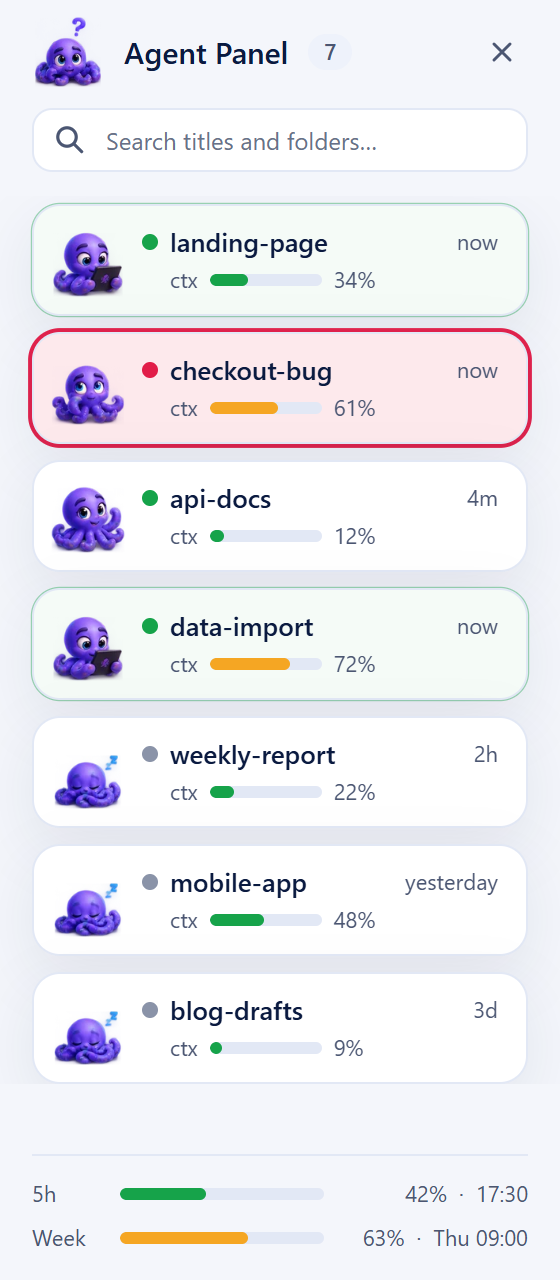
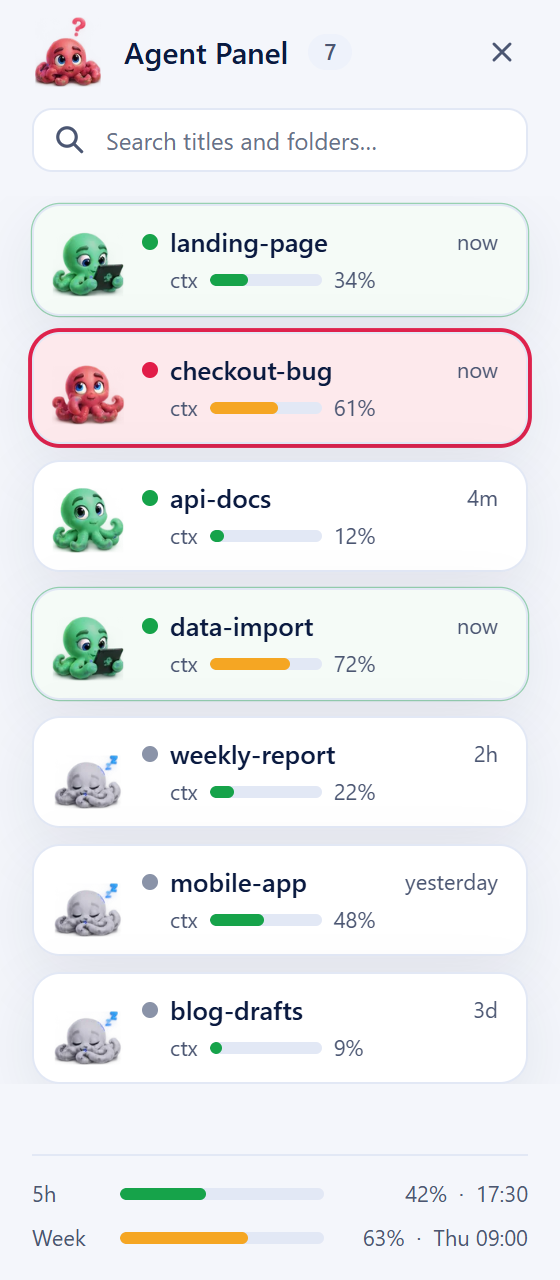
Agent Panel: the octopus takes its state's colour, green, red or grey

diff --git a/agent-panel.html b/agent-panel.html
@@ -10,7 +10,8 @@
      Mascot (2026-11-09): a purple octopus (the maintainer's sheet, cut by tools/mascot-export.py into
      mascot/ and inlined by agent-panel.pyw as window.MASCOT). It is the header's logo and sits on every
      card: reading a tablet while the session works, puzzled with a question mark while it asks, calm and
-     blinking now and then while it is open, asleep and still when closed. Without the strips the old logo stays. The bars' 50-80 % band is gold to match the status line,
+     blinking now and then while it is open, asleep and still when closed, and takes its state's dot
+     colour (green, red, grey; the strips are recoloured at export). Without the strips the old logo stays. The bars' 50-80 % band is gold to match the status line,
      an exception to Spark's "gold for rewards only". Written-down exceptions to design.md "One row,
      one shape": the header's logo (36, the octopus), count pill (18, pill radius) and hide button (26) differ, the
      pill qualifying the title and the button standing apart at the edge. Headings and boxes share the

diff --git a/tools/mascot-export.py b/tools/mascot-export.py
@@ -6,7 +6,9 @@ Source: tools/mascot-source/purple-octopus.png, a 1536 x 1024 sheet with transpa
 two columns of six numbered rows, five frames per row, a dark label pill at each row's top left.
 Each row used here is cut into its frames (alpha bands between the drawings), every frame placed
 on one square canvas per row, standing on the drawing's baseline and centred on it, so the frames
-line up when played; then scaled to 96 px frames (shown at 36 to 38 px, sharp on scaled screens).
+line up when played; then scaled to 96 px frames (shown at 36 to 38 px, sharp on scaled screens),
+and recoloured to its state's dot colour: only the octopus's purple changes hue (the blue eyes, the
+white and the props keep theirs), green for open and working, red for asking, grey for closed.
 Output: mascot/<name>.webp next to this folder's parent, one horizontal strip per name, and
 mascot/logo.png, the package's logo (256 px), and mascot/tray.png, the tray icon (64 px).
 """
@@ -19,13 +21,30 @@ HERE = os.path.dirname(os.path.abspath(__file__))
 SRC = os.path.join(HERE, "mascot-source", "purple-octopus.png")
 OUT = os.path.join(os.path.dirname(HERE), "mascot")
 OUT_PX = 96
-# name: (column 0 or 1, row band 0..5, frames to keep in play order)
+# name: (column 0 or 1, row band 0..5, frames to keep in play order, colour)
 STRIPS = {
-    "calm": (0, 0, [0, 1, 2, 3, 4]),        # 1 Calm: looks around, blinks
-    "reading": (1, 0, [0, 1, 2, 3, 4]),     # 2 Watching / reading a tablet
-    "sleeping": (0, 1, [0, 1, 2]),          # 3 Asleep (cap and bubble frames left out)
-    "asking": (1, 3, [1, 2, 4, 2]),         # 8 Puzzled, question marks (the box frame left out)
+    "calm": (0, 0, [0, 1, 2, 3, 4], "green"),     # 1 Calm: looks around, blinks
+    "reading": (1, 0, [0, 1, 2, 3, 4], "green"),  # 2 Watching / reading a tablet
+    "sleeping": (0, 1, [0, 1, 2], "grey"),        # 3 Asleep (cap and bubble frames left out)
+    "asking": (1, 3, [1, 2, 4, 2], "red"),        # 8 Puzzled, question marks (the box frame left out)
 }
+# the panel's dot colours (--green #16a34a, --red #e11d48, --gone grey) as a target hue for the
+# octopus's purple (hue about 250), with saturation and brightness scaled so it is not neon
+COLOURS = {"green": (142, 0.8, 0.85), "red": (350, 0.9, 0.95), "grey": (None, 0.1, 0.85)}
+
+
+def recolour(img, colour):
+    hue, sat, val = COLOURS[colour]
+    rgba = np.array(img)
+    hsv = np.array(Image.fromarray(rgba[:, :, :3]).convert("HSV")).astype(float)
+    h = hsv[:, :, 0] * 360 / 255
+    purple = (h >= 232) & (h <= 320) & (hsv[:, :, 1] > 30)  # the irises (hue about 215) stay blue
+    if hue is not None:
+        hsv[:, :, 0] = np.where(purple, (h + hue - 250) % 360, h) * 255 / 360
+    hsv[:, :, 1] = np.where(purple, hsv[:, :, 1] * sat, hsv[:, :, 1])
+    hsv[:, :, 2] = np.where(purple, hsv[:, :, 2] * val, hsv[:, :, 2])
+    rgb = np.array(Image.fromarray(hsv.clip(0, 255).astype("uint8"), "HSV").convert("RGB"))
+    return Image.fromarray(np.dstack([rgb, rgba[:, :, 3]]), "RGBA")
 BANDS = [0, 170, 345, 530, 700, 870, 1024]
 
 sheet = Image.open(SRC).convert("RGBA")
@@ -67,7 +86,7 @@ def frames_of(col, band):
 
 
 os.makedirs(OUT, exist_ok=True)
-for name, (col, band, keep) in STRIPS.items():
+for name, (col, band, keep, colour) in STRIPS.items():
     frames = frames_of(col, band)
     side = max(max(f.width, f.height) for f in frames) + 6
     strip = Image.new("RGBA", (OUT_PX * len(keep), OUT_PX))
@@ -76,10 +95,10 @@ for name, (col, band, keep) in STRIPS.items():
         canvas = Image.new("RGBA", (side, side))
         canvas.paste(f, ((side - f.width) // 2, side - 3 - f.height))
         strip.paste(canvas.resize((OUT_PX, OUT_PX), Image.LANCZOS), (i * OUT_PX, 0))
-    strip.save(os.path.join(OUT, name + ".webp"), "WEBP", quality=85, method=6)
-    print("wrote %s (%d frames)" % (name, len(keep)))
+    recolour(strip, colour).save(os.path.join(OUT, name + ".webp"), "WEBP", quality=85, method=6)
+    print("wrote %s (%d frames, %s)" % (name, len(keep), colour))
 
-# the package's logo (README, tray icon): the calm octopus's first pose, cut close to its drawing
+# the package's logo (README, tray icon): the calm octopus's first pose in its own purple, cut close
 f = frames_of(*STRIPS["calm"][:2])[0]
 side = max(f.width, f.height)
 logo = Image.new("RGBA", (side, side))

diff --git a/memory.md b/memory.md
@@ -27,7 +27,7 @@ Key file: `~/.claudex/profiles/glm/.env`, line `CLAUDEX_KEY="..."`. Never in thi
 - Right-click menu (2026-11-07, the maintainer's spec): Hide / Unhide, Close (open sessions only), Delete. The menu is HTML inside the panel (a web page cannot draw outside its window), opened at the pointer and kept inside the panel; Delete is red on a pale red hover. It closes on Escape, on a click outside (that click does nothing else), on scroll and on focus loss. The native menu was rejected (the maintainer, 2026-11-08: it ignores the theme). Hidden ids live in `~/.claude/state/agent-panel/hidden.json`; Hidden sessions, sessions whose folder is gone and headless runs (`entrypoint` `sdk-cli` in the transcript: a `claude -p` that another session started, e.g. tech news calling the Topview MCP; 2026-11-08, the maintainer) stay out of the main list and the header count; a headless card says `headless` and its menu has no Hide; the quiet link *Show Hidden, Deleted and Headless (n)* in the strip under the list adds a HIDDEN, DELETED AND HEADLESS section after the main list and scrolls to it. Cards there are not greyed; their second line says `hidden` or `folder deleted` (the maintainer, 2026-11-07: greyed cards inside the main list read as clutter; the user's word is "deleted", not "missing"). Open/working dots are refreshed every 2 s from `~/.claude/sessions/<pid>.json` alone (the full transcript scan stays at 15 s), so a session closed in its own terminal loses its dot within 2 s. Close and Delete confirm in two steps beside the control, per `mindmap/table.md` *Delete confirmation* (2026-11-08, replacing two modal dialogs): the menu turns into a small card with the question, one sentence on what happens, Cancel (focused, the default) and *Yes, Close* / *Yes, Delete*, placed under the card (above it near the bottom), never on it. Delete on an open session closes it first and waits up to 10 s for its process to end (`close_delete`); on a session stored inside WSL it is shown greyed and says why under itself (a network path has no Recycle Bin). It then moves the transcript, its `<id>/` folder and `file-history/<id>/` to the Recycle Bin with `SHFileOperationW` (`FOF_ALLOWUNDO`). Project files and the project's auto memory are never touched. Close sends `WM_CLOSE` to the session's window when no other open session shares it, otherwise ends the process; the transcript stays.
 - Tested 2026-11-07: work area back to the full 1920 px with the panel running; a maximised window spans the full width and covers the panel; Ctrl+Alt+C raised the panel over it.
 - Panel look (2026-11-08): the Afiniti Spark theme (`mindmap/design_themes/spark_theme`) as CSS in `agent-panel.html`: Spark colours, 14 px cards with the resting `--shadow`, 10 px search box with a blue focus ring, blue hover border, colour-matched glow on the confirm buttons, blue to cyan logo tile as inline SVG; gold only for rewards. State (the maintainer, 2026-11-09, replacing a blinking dot): the dot is green for a working or open session, grey for a closed one, red for one asking. The whole card of a working session breathes: its background and a ring fade to green and back every 2.4 s (a plain blink of the dot was not seen from afar; a hard blink of whole cards, several at once, was rejected as too loud at the screen edge). A session whose own window shows a prompt waiting for an answer (a permission question or a dialog) pulses red, faster (1.2 s), so it stands out among working ones. Under reduced motion the card keeps a still green or red tint and ring, and the working dot is a hollow ring. The red state comes from `waitingFor`: Claude Code writes it into `~/.claude/sessions/<pid>.json` while `status` still says `busy`, and the panel reads it every 2 s. Before this such a session looked as if it were working. Fonts are Segoe UI (Manrope and Inter are not installed; bundling them was offered, not chosen yet). The Tk version (2026-11-07) had to replace shadows with borders and draw icons with PIL; that is why it was ported (see `mindmap/claude-plus-fa.md`, Decisions).
-- Mascot (2026-11-09, the maintainer): a purple octopus from the maintainer's own sprite sheet, the header's logo (36 px, showing the most pressing state in the list) and on every card (38 px, on the left). It replaced, the same day, MindCopy's Knowledge Gremlin, whose detail turned to mush at 38 px; drawn SVG droplets were tried in between and rejected (too soft, then a superhero version that did not read). Mood by state: working reads a tablet (loop, 650 ms a frame), asking looks puzzled with a question mark (loop, 550 ms), open looks around and blinks once then rests 5 s (450 ms), closed sleeps without moving. The sheet's frames are separate poses, not in-betweens, so each holds about half a second; faster swapping looked jittery. One `requestAnimationFrame` timer drives every strip; each card starts at a random moment so they do not move in step; reduced motion shows frame 0 only (rules: `mindmap/mascot.md`). Every card shows the same octopus: the sheet has one character, so cards no longer look different from each other.
+- Mascot (2026-11-09, the maintainer): a purple octopus from the maintainer's own sprite sheet, the header's logo (36 px, showing the most pressing state in the list) and on every card (38 px, on the left). It replaced, the same day, MindCopy's Knowledge Gremlin, whose detail turned to mush at 38 px; drawn SVG droplets were tried in between and rejected (too soft, then a superhero version that did not read). Each strip is recoloured at export to its state's dot colour (the maintainer, 2026-11-09): green for working and open, red for asking, grey for closed; only the octopus's purple (hue 232 to 320) is shifted, so the blue eyes and the props keep their colours; the logo and the tray icon stay purple. Mood by state: working reads a tablet (loop, 650 ms a frame), asking looks puzzled with a question mark (loop, 550 ms), open looks around and blinks once then rests 5 s (450 ms), closed sleeps without moving. The sheet's frames are separate poses, not in-betweens, so each holds about half a second; faster swapping looked jittery. One `requestAnimationFrame` timer drives every strip; each card starts at a random moment so they do not move in step; reduced motion shows frame 0 only (rules: `mindmap/mascot.md`). Every card shows the same octopus: the sheet has one character, so cards no longer look different from each other.
 - Card rows (2026-11-08, the maintainer; path row removed 2026-11-09): title, whose tooltip is the full folder path (`where_of`: a WSL-distro session gets `\\wsl.localhost\<distro>` in front, `//` paths turn into backslashes), with the title in full above it when the title is cut (navy, after 400 ms of pointer movement, gone after 3 s, on leave, on a click or on scroll, per `tooltip.md`, which also rules out opening it on keyboard focus; a screen reader gets the path in the card's label). The path had its own row until 2026-11-09; dropping it makes cards smaller so more sessions fit, at the cost of telling same-titled sessions apart only by pointing. Search still matches the path. Then `ctx` bar + percent from `~/.claude/state/context/<sid>.json` (green < 50, gold < 80, red above, as on the status line; left out entirely when unknown) and on the right `hidden` / `headless` / `folder deleted` / age, joined by ` · `. Every part of that row but the flags keeps its width; the flags end in `…` when they do not fit, with the same tooltip showing them in full (a row wider than the card gave the list a horizontal scrollbar, 2026-11-08). Cards are 56 px high. The `(WSL)` tag is gone: the path shows it. The bottom strip shows `5h` and `week` bars from `rate_limits.json`; a figure whose `resets_at` has passed says *no figure yet*. Cards are kept and patched by id, never redrawn wholesale: open sessions change every 2 s, and a redrawn card drops the hover and the title's tooltip (this hid the tooltip in the first web build).
 - `apply design.md` (2026-11-08, three passes) changed the panel: a message about one card shows under that card (an error stays until the next click or key, a success leaves after 5 s); a message about the whole panel floats above the bottom link, and a failed scan stays there in amber until a scan succeeds; the search has a × and Esc, searches title and full path, marks hits and turns the count into `matches/total`; a skeleton shows until the first scan (`scanned` in the state); the age moved to the title row; titles cut with … get a tooltip; every button has a custom tooltip (no `title`); cards are keyboard buttons (Enter or Space opens, Shift+F10 or the menu key opens the menu, arrows walk it); reduced motion stops all motion and draws the working dot as a ring; the closed dot and the bottom link were darkened for contrast. `statusline.py` now rounds halves up like the panel, so both show the same percent.
 - Clicks (2026-11-07, the maintainer): a closed session opens only on a double click, so a stray click never starts one (a single click says "Double-click to open it.", held back 450 ms so a double click never shows it); an open session comes forward on a single click.

diff --git a/README.md b/README.md
@@ -47,7 +47,7 @@ A set of add-ons that makes [Claude Code](https://code.claude.com) on Windows sa
 - Every Claude Code session on your PC, old and current, in a narrow list over the right edge of the screen, newest first, with a search box. It takes no screen space: desktop icons and maximised windows keep their place, and the window you are working in covers it.
 - Each session shows its title (point at it to see the session's full folder path) and a `ctx` bar with how much of its context is used, as on the status line. The bottom of the panel shows your `5h` and `week` usage and when each resets. Both come from the claude-plus-fa status line, so a session that never ran with it shows no bar, and a usage figure not reported yet says *no figure yet*.
 - Double-click a closed session and it **automatically** opens in its own folder, in a new terminal, as `claude --resume <session> --dangerously-skip-permissions`. Sessions you started from a WSL folder open there too.
-- A little purple octopus sits beside every session: it reads a tablet while the session works, looks puzzled with a question mark when the session asks you something, blinks now and then while it is open and sleeps when it is closed.
+- A little octopus sits beside every session, in the colour of the session's dot: green, it reads a tablet while the session works and blinks now and then while it is open; red, it looks puzzled with a question mark when the session asks you something; grey, it sleeps when the session is closed.
 - A green dot marks an open session and a grey one a closed session. The whole card of a working session slowly glows green, and the card of a session whose window asks you something (a permission prompt) pulses red. A single click on an open session does not start a second copy: it brings that session's window to the front, at the size and place it had (restored if it was minimised).
 - It starts **automatically** when you sign in to Windows. `Ctrl+Alt+C` or its tray icon brings it to the front when it is covered, and hides or shows it otherwise.
 - Right-click a session to **Hide** it from the list, **Close** it if it is open, or **Delete** it. Hidden sessions, sessions whose folder no longer exists, and headless runs (a `claude -p` that another session started) leave the main list; *Show Hidden, Deleted and Headless* at the bottom of the panel lists them in a section of their own.
